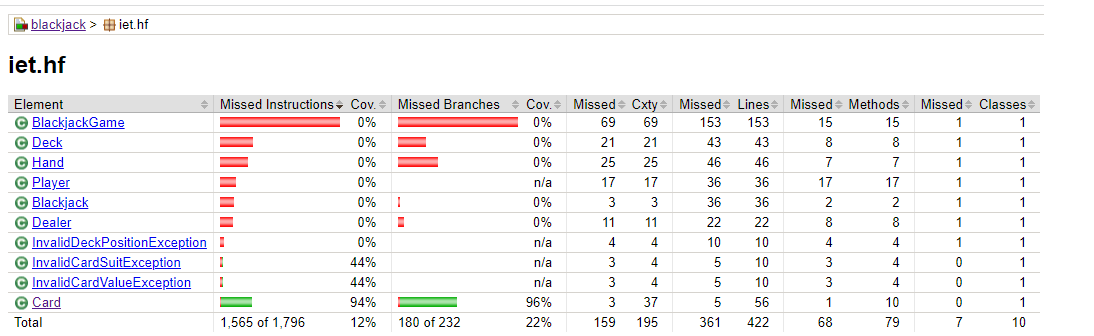
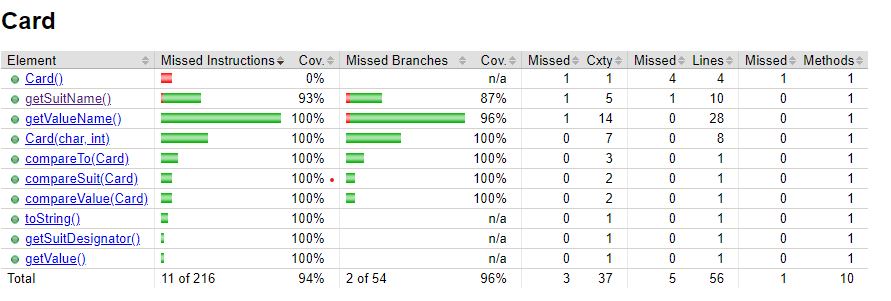
unit test documentation ready till Deck class (60%)

Changed region(s): [[0.0, 0.1495, 1.0, 0.9867], [0.0, 0.0299, 0.9394, 0.1196], [0.9394, 0.6877, 0.9697, 0.7176]]

diff --git a/docs/Unit tests/unit-docs.md b/docs/Unit tests/unit-docs.md
@@ -6,3 +6,23 @@ az alábbi ábra is:
 ![](1.png) \
 Mint látható, mindenhol 0% a lefedettség, ezen szerettünk volna javítani a tesztek segítségével, melyek
 nagy segítséget jelentenek a fejlesztők számára a későbbi fejlesztések során.
+
+### Card osztály tesztelése
+Az első tesztelt osztály a Card osztály volt. Az alábbi ábra mutatja, hogy itt a kódlefedettség 
+jóval megnőtt, közel 100%.
+![](2-card.png) \
+Az osztály belseje tesztek szempontjából így néz ki:
+![](2-card-test.png) 
+
+### Dealer osztály tesztelése
+A következő osztály, melyhez készítve lettek tesztek a Dealer osztály volt. Itt a lefedettség 86%.
+![](2-dealer-test.png) \
+Belülről:
+![](2-dealer.png) \
+
+### Deck osztály tesztelése
+Ezután jött a Deck osztályhoz készültek el a tesztek, 76%-os lefedettséget eredményezve.
+![](3-deck-test.png) \
+Függvények lefedettsége:
+![](3-deck.png) \
+
